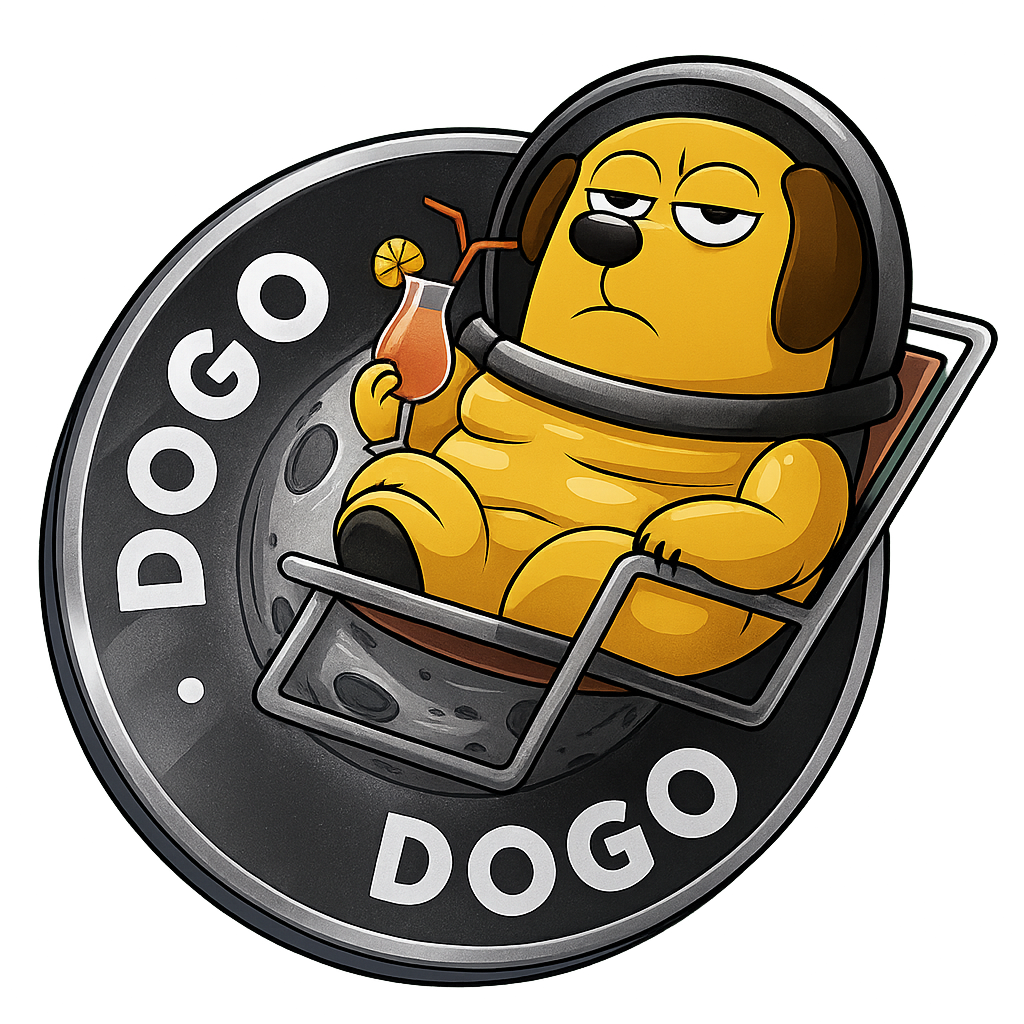
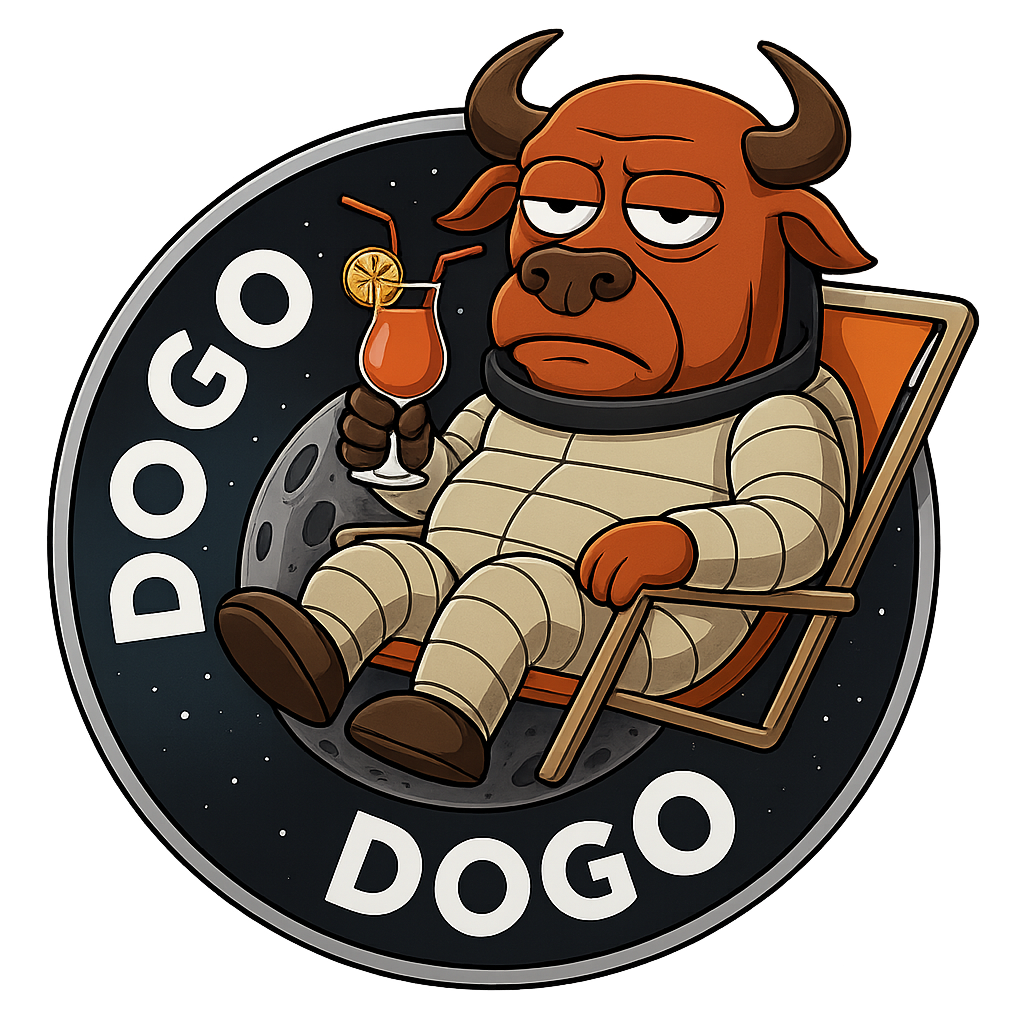
a

diff --git a/index.html b/index.html
@@ -162,8 +162,8 @@
 											</div>
 										</h3>
 										<div class="item-hero__body-text">
-											Space Dogo isn’t just a memecoin... it’s a cosmic force.
-Forged in the heart of a supernova and powered by pure bark energy, Space Dogo is the toughest memecoin in the galaxy.
+											BULL DOGO isn’t just a memecoin... it’s a cosmic force.
+Forged in the heart of a supernova and powered by pure bark energy, BULL DOGO is the toughest memecoin in the galaxy.
 While others moon, he orbits domination.
 Join the mission. Hold $DOGO. Conquer the stars.
 										</div>
@@ -233,7 +233,7 @@ Join the mission. Hold $DOGO. Conquer the stars.
 											</div>
 										</h3>
 										<div class="item-hero__body-text">
-											Rare video footage of a Space Dogo interstellar rendezvous lasting 30 minutes has scientists stunned — proving once again that even in zero gravity, the toughest dog in the galaxy knows how to make headlines.
+											Rare video footage of a BULL DOGO interstellar rendezvous lasting 30 minutes has scientists stunned — proving once again that even in zero gravity, the toughest dog in the galaxy knows how to make headlines.
 										</div>
 										<div class="item-hero__body-bottom">
 							
@@ -273,7 +273,7 @@ Join the mission. Hold $DOGO. Conquer the stars.
 											</div>
 										</h3>
 										<div class="item-hero__body-text">
-											WHY SPACE DOGOS SPILLED ALL OVER THE MOON IN 2025
+											WHY BULL DOGOS SPILLED ALL OVER THE MOON IN 2025
 										</div>
 										<div class="item-hero__body-bottom">
 									
@@ -326,7 +326,7 @@ Join the mission. Hold $DOGO. Conquer the stars.
 												</div>
 											</h3>
 											<div class="item-hero__body-text">
-												NEW SPACE DOGO DISCOVERY REVEALS SECRETS OF MEME RADIATION RESISTANCE
+												NEW BULL DOGO DISCOVERY REVEALS SECRETS OF MEME RADIATION RESISTANCE
 											</div>
 											<div class="item-hero__body-bottom">
 								
@@ -392,7 +392,7 @@ Join the mission. Hold $DOGO. Conquer the stars.
 											</div>
 										</h3>
 										<div class="item-hero__body-text">
-											Anti-aging elixir could be hiding in 'indestructible' Space Dogos, say scientists who discovered cosmic proteins that slow memecoin decay
+											Anti-aging elixir could be hiding in 'indestructible' BULL DOGOs, say scientists who discovered cosmic proteins that slow memecoin decay
 										</div>
 										<div class="item-hero__body-bottom">
 					
@@ -448,7 +448,7 @@ Join the mission. Hold $DOGO. Conquer the stars.
 											</a>
 										</div>
 										<div class="item-musk__body-post-message">
-											/And even tinier ones for SPACE DOGO
+											/And even tinier ones for BULL DOGO
 										</div>
 									</div>
 								</div>
